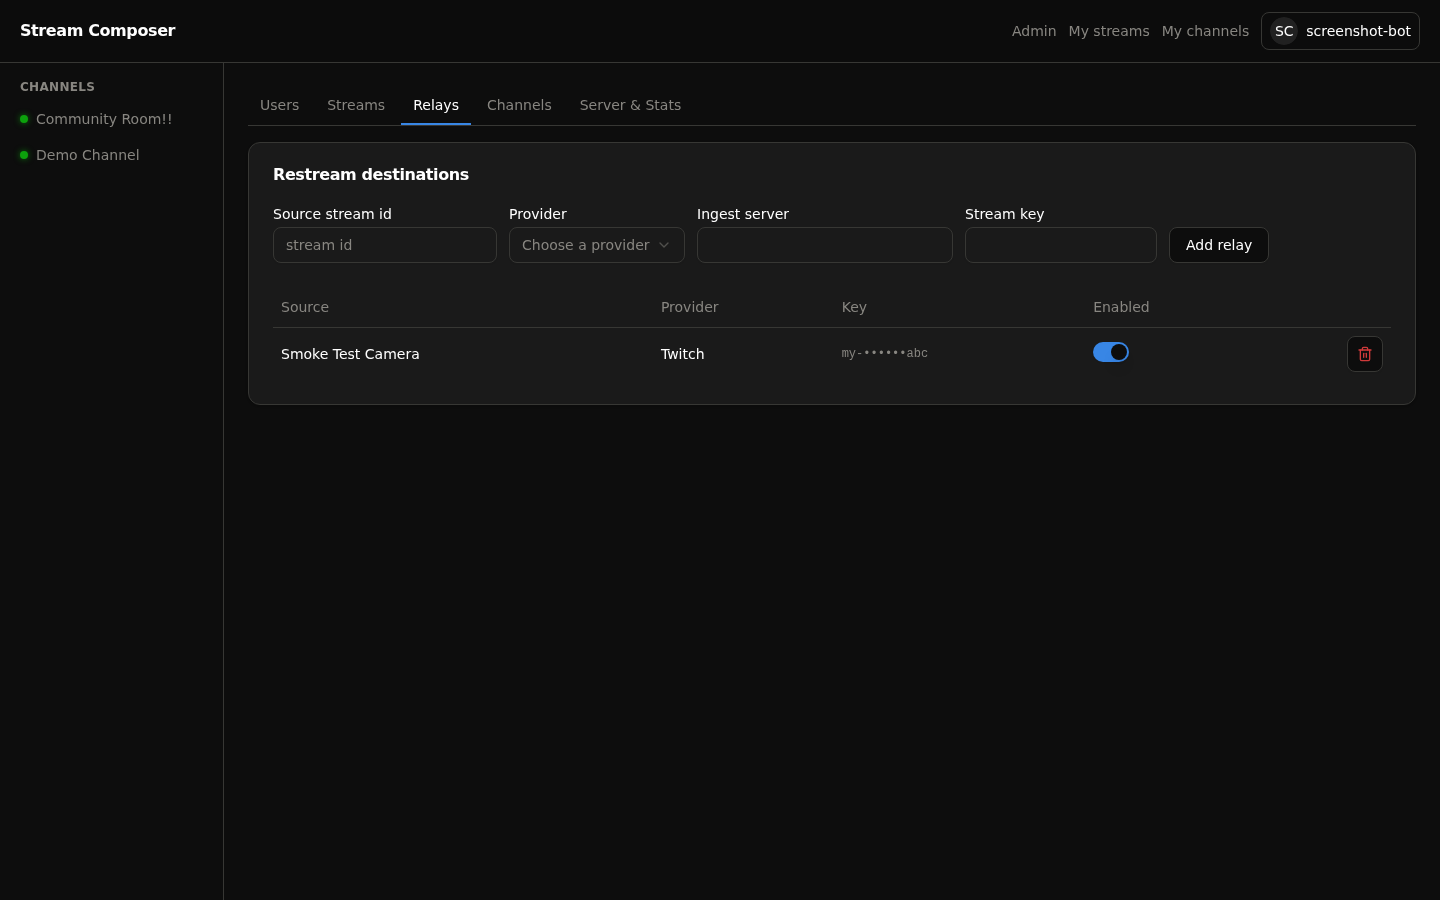
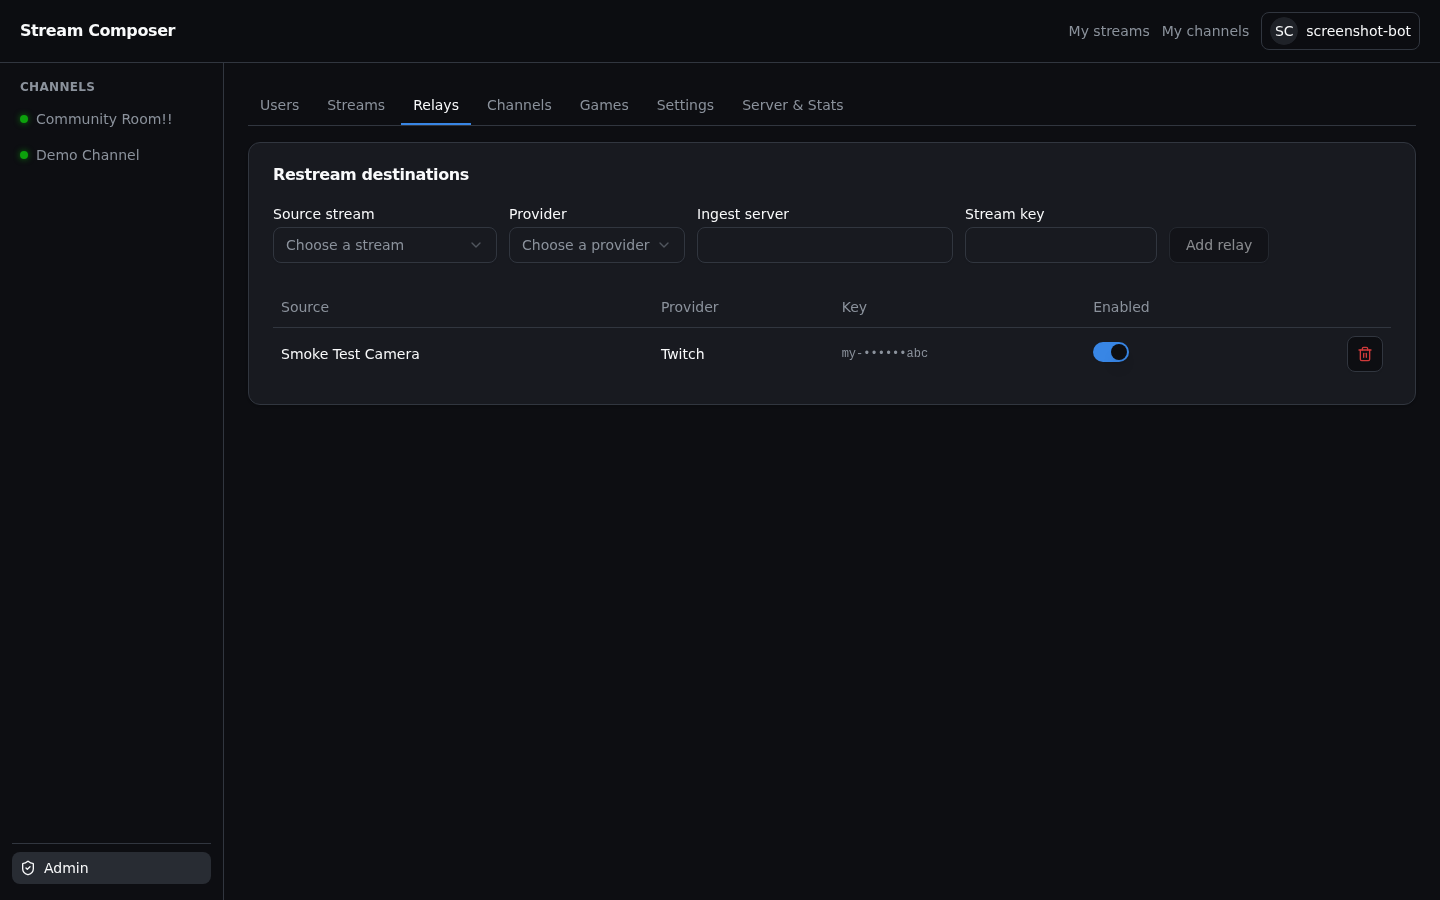
Refresh screenshots and document this session's new features
Recaptures every existing screenshot against current main (badge-style
captions, no bold, etc.) and adds four new ones: the "maximize" layout
mode, a channel's full edit page, and the new Games/Settings admin
tabs. capture.mjs gains MAXIMIZE_CHANNEL_SLUG/EDIT_CHANNEL_ID for the
two new page types; docs/screenshots/README.md documents them and notes
that two adjacent black placeholder tiles can look like one merged
rectangle in a static capture (there's a real gap, see the maximize
shot -- just not visible against identical black backgrounds).

README's "What it does" and "A look around" sections cover the layout
modes, games, and full channel edit pages this session shipped.

diff --git a/README.md b/README.md
@@ -62,7 +62,16 @@ Create a channel to curate which streams show up together on their own page.
 - **Channels.** A named, sluggable, curated list of streams at its own URL
   (`/c/your-channel`). Public or private, with per-channel access grants,
   an optional background image, and one channel can be set as the site's
-  homepage.
+  homepage. Give it a description, a current topic, and a featured game,
+  and edit all of it — including which layout mode it uses — from its own
+  full edit page.
+- **Two grid layouts.** Fixed locks a 16:9 canvas that scales with the
+  page — the original behavior. Maximize instead fits the grid to
+  whatever space is actually available, always leaving room for the
+  title and description. Pick a site-wide default in Admin → Settings, or
+  override it per channel.
+- **Games.** Tag a channel with what's being played. Admin → Games
+  manages the list, seeded with 100+ common titles to start from.
 - **Per-stream visibility.** Streams are private by default; make one
   public, or share it with specific users. A private stream inside a
   channel you can otherwise see renders as a locked placeholder, never a
@@ -100,6 +109,12 @@ everyone else's just play.
 
 <img src="docs/screenshots/channel-viewer.png" alt="A channel's own page with a live grid and the Streams favorites panel in the left nav" width="820">
 
+**"Maximize" layout mode** fits the grid to the streams themselves instead
+of a locked canvas, packing tiles into whatever space the page actually
+has while keeping the title and description visible below it.
+
+<img src="docs/screenshots/channel-viewer-maximize.png" alt="A channel in Maximize layout mode: two tiles sized to fill the available page space, stacked to fit, each with its own name caption at the bottom" width="820">
+
 **Admin → Users** is where accounts and roles live, including the
 impersonate action on each row (only available to admins).
 
@@ -119,6 +134,22 @@ source, pick a destination (or paste any RTMP URL), and switch it on.
 public, private, or shared with specific users.
 
 <img src="docs/screenshots/admin-channels.png" alt="The admin Channels tab listing channels with their visibility and member streams" width="820">
+
+**A channel's full edit page** (opened from either Admin → Channels or a
+user's own "My channels") covers everything about it in one place: name,
+slug, description, topic, featured game, visibility, grid layout mode,
+owner, member streams, and its background image.
+
+<img src="docs/screenshots/admin-channel-edit.png" alt="A channel's full edit page with fields for name, slug, description, current topic, featured game, visibility, grid layout mode, owner, member streams, and background image" width="820">
+
+**Admin → Games** manages the list channels pick their featured game from.
+
+<img src="docs/screenshots/admin-games.png" alt="The admin Games tab: an add-game form over a list of games, each editable inline with a delete action" width="820">
+
+**Admin → Settings** holds the site-wide defaults: which grid layout new
+channels start with, and whether anonymous viewing is allowed at all.
+
+<img src="docs/screenshots/admin-settings.png" alt="The admin Settings tab with a default grid layout dropdown and an allow-public-viewing toggle" width="820">
 
 **Admin → Server & Stats** shows what the box is actually doing: CPU,
 memory, uptime, service health, and a real bandwidth chart you can hover

diff --git a/docs/screenshots/README.md b/docs/screenshots/README.md
@@ -6,11 +6,15 @@ no mock-ups. 1440x900 pages, captured with Chromium via Playwright.
 | File | Screen |
 |---|---|
 | [viewer-home.png](viewer-home.png) | The default viewer page, showing whichever channel is live on air |
-| [channel-viewer.png](channel-viewer.png) | A channel's own page: its grid, plus the Streams favorites panel in the left nav |
+| [channel-viewer.png](channel-viewer.png) | A channel's own page in "Fixed" layout mode: its grid, plus the Streams favorites panel in the left nav |
+| [channel-viewer-maximize.png](channel-viewer-maximize.png) | A channel in "Maximize" layout mode: the grid fits itself to the available page space instead of a locked canvas |
 | [admin-users.png](admin-users.png) | Admin → Users: accounts, roles, and the impersonate action |
 | [admin-streams.png](admin-streams.png) | Admin → Streams: masked keys and per-stream visibility |
 | [admin-relays.png](admin-relays.png) | Admin → Relays: forwarding sources on to other platforms |
 | [admin-channels.png](admin-channels.png) | Admin → Channels: curated stream lists and their visibility |
+| [admin-channel-edit.png](admin-channel-edit.png) | A channel's full edit page: name, slug, description, topic, featured game, visibility, layout mode, owner, members, background image |
+| [admin-games.png](admin-games.png) | Admin → Games: the list channels pick a featured game from |
+| [admin-settings.png](admin-settings.png) | Admin → Settings: the site-wide default layout mode and the public-viewing toggle |
 | [admin-stats.png](admin-stats.png) | Admin → Server & Stats: CPU/memory, service health, bandwidth history |
 
 ## How they were taken
@@ -27,6 +31,10 @@ scratch. Two things worth knowing when reading the images:
   screenshot even when playback is genuinely working**, so live tiles show
   as solid black with the source name burned in underneath rather than a
   picture. The live indicators, layout, and everything else are real.
+- **Two adjacent solid-black tiles can look like one merged rectangle.**
+  There is a real gap between them (see `channel-viewer-maximize.png`),
+  it just isn't visible against two identical black backgrounds in a
+  static image — with real video this isn't an issue.
 
 ## Refreshing them
 
@@ -37,10 +45,15 @@ npm install && npx playwright install chromium   # first time only
 BASE_URL=http://localhost:15173 \
 ADMIN_USERNAME=<admin username> ADMIN_PASSWORD=<admin password> \
 CHANNEL_SLUG=<a public channel with a couple of live members> \
+MAXIMIZE_CHANNEL_SLUG=<a channel using "maximize" layout mode> \
+EDIT_CHANNEL_ID=<uuid of the channel MAXIMIZE_CHANNEL_SLUG names> \
   node capture.mjs
 ```
 
 Needs the dev stack already running (`docker-compose.migration.yml`) with
 at least one enabled stream and, ideally, a public channel with a couple of
-sources actually publishing so the shots aren't empty placeholders. Writes
-to `docs/screenshots/`, so the diff shows exactly which screens changed.
+sources actually publishing so the shots aren't empty placeholders.
+`MAXIMIZE_CHANNEL_SLUG`/`EDIT_CHANNEL_ID` are optional — without them,
+`channel-viewer-maximize.png` and `admin-channel-edit.png` are simply
+skipped. Writes to `docs/screenshots/`, so the diff shows exactly which
+screens changed.
